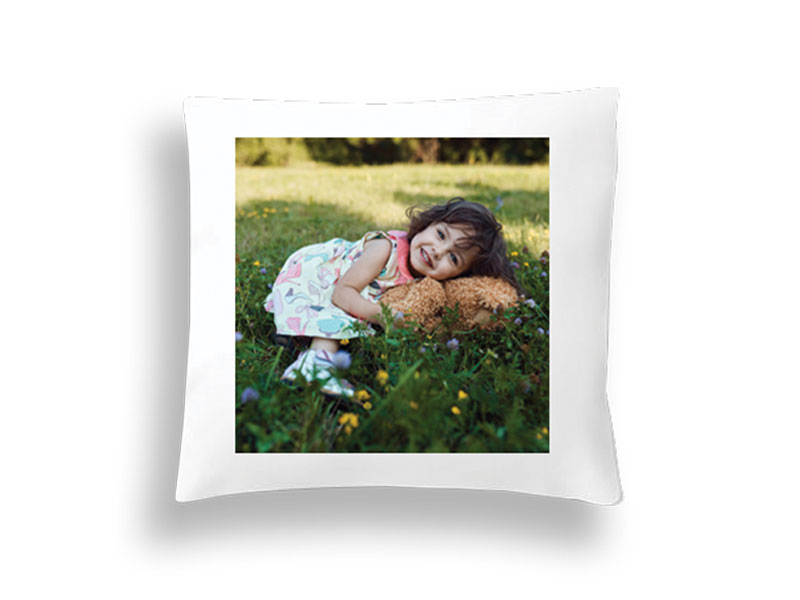
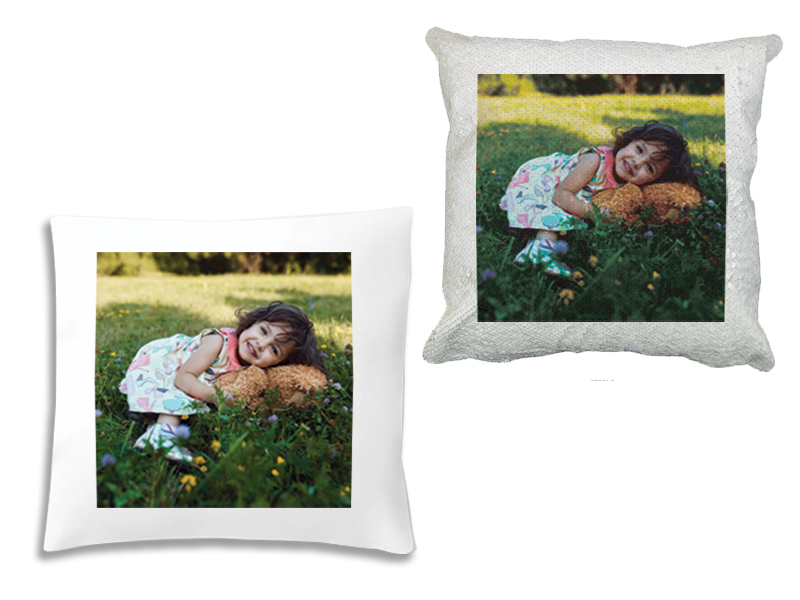
ddd

diff --git a/ajandektargy.html b/ajandektargy.html
@@ -58,38 +58,24 @@
       <div class="product">
         <img class="product__pic" src="assets/gift/mug.jpg" alt="Fényképes bögre">
         <h4>Fényképes bögre</h4>
-        <p class="product__text">Kerámia bögre 300 ml</p>
+        <p class="product__text">Kerámia / műanyag</p>
         <p>Egy fotóval</p>
       </div>
 
       <div class="product">
-        <img class="product__pic" src="assets/gift/mug_xmas.jpg" alt="Fényképes bögre">
-        <h4>Mintás belsejű bögre</h4>
-        <p class="product__text">Karácsonyi mintával</p>
+        <img class="product__pic" src="assets/gift/mug_heart.jpg" alt="Fényképes bögre">
+        <h4>Kerámia bögre</h4>
+        <p class="product__text">Szív füllel</p>
         <p>Egy fotóval</p>
         
       </div>
 
       <div class="product">
-        <img class="product__pic" src="assets/gift/mug_golden.jpg" alt="Fényképes bögre">
-        <h4>Arany belsejű bögre</h4>
-        <p class="product__text">Kerámia bögre, belül gyöngyház arany színnel</p>
-        <p>Egy fotóval</p>
-      </div>
-
-      <div class="product">
-        <img class="product__pic" src="assets/gift/magic_mug-black.jpg" alt="Fényképes bögre">
+        <img class="product__pic" src="assets/gift/magic_mug.jpg" alt="Fényképes bögre">
         <h4>Varázsbögre</h4>
-        <p class="product__text">Varázsbögre fekete</p>
+        <p class="product__text">Matt fekete / csillámos</p>
         <p>Egy fotóval</p>
-        <p class="small-text">(A varázsbögre kívül-belül fekete színű, magas hő hatására láthatóvá válik rajta a fotó fehér alapon.)</p>
-      </div>
-
-      <div class="product">
-        <img class="product__pic" src="assets/gift/bottle.jpg" alt="Kulacs">
-        <h4>Kulacs</h4>
-        <p class="product__text">Alumínium kulacs</p>
-        <p>Egy fotóval</p>
+        <p class="small-text">(Magas hő hatására láthatóvá válik rajta a fotó fehér alapon.)</p>
       </div>
 
       <div class="product">
@@ -100,20 +86,34 @@
         <p>(Alj nyomatlan)</p>
       </div>
 
+      <div class="product">
+        <img class="product__pic" src="assets/gift/badge.jpg" alt="kitűző">
+        <h4>Fényképes kitűző</h4>
+        <p class="product__text">32 mm | 58 mm</p>
+        <p>Egy fotóval</p>
+        <p class="small-text">(Mágneses hátoldallal is elérhető!)</p>
+      </div>
+
+      <div class="product">
+        <img class="product__pic" src="assets/gift/magnet_new.jpg" alt="Hűtőmágnes">
+        <h4>Hűtőmágnes</h4>
+        <p class="product__text">Többféle:</p>
+        <p>Mágneslap | Kitűző forma | Fém</p>
+      </div>
+
+      <div class="product">
+        <img class="product__pic" src="assets/gift/puzzle.jpg" alt="Kirakó">
+        <h4>Kirakó</h4>
+        <p class="product__text">Többféle méret:</p>
+        <p class="small-text">kb. 16x11 cm | Kb. 20x14 cm |  Kb. 28x19 cm </p>
+      </div>
       
       <div class="product">
         <img class="product__pic" src="assets/gift/keychain.jpg" alt="Kulcstartó">
         <h4>Kulcstartó</h4>
         <p class="product__text">Többféle:</p>
-        <p>Műanyag | Fém díszdobozzal</p>
+        <p>Műanyag | Fém díszdobozzal |  Szív forma</p>
         <p>(Egy oldalon nyomott)</p>
-      </div>
-
-      <div class="product">
-        <img class="product__pic" src="assets/gift/magnet.jpg" alt="Hűtőmágnes">
-        <h4>Hűtőmágnes</h4>
-        <p class="product__text">Többféle:</p>
-        <p>Mágneslap | Műanyag | Fém</p>
       </div>
 
       <div class="product">
@@ -135,7 +135,9 @@
       <div class="product">
         <img class="product__pic" src="assets/gift/pillow.jpg" alt="Párna">
         <h4>Fényképes párna</h4>
+        <p class="product__text">Textil / Flitteres</p>
         <p class="product__text">Egy oldalon nyomott párna, töltettel</p>
+        <p class="small-text">(A flitteres változat átfordítva fehér színű!)</p>
         <p>40 x 40 cm</p>
       </div>
 
@@ -150,7 +152,7 @@
       <div class="product">
         <img class="product__pic" src="assets/gift/apron.jpg" alt="kötény">
         <h4>Kötény</h4>
-        <p class="product__text">Fotóval | Fotóval és grafikával</p>
+        <p class="product__text">Fotóval</p>
         <p class="small-text">(Kérhető saját szöveges tartalommal kiegészítve 
           vagy önállóan a fotóval!)</p>
       </div>
@@ -172,28 +174,27 @@
       </div>     
 
         <div class="product">
-        <img class="product__pic" src="assets/gift/calendar.jpg" alt="naptár">
-        <h4>Naptár</h4>
-        <p class="product__text">Kb. 20x29 cm-es 1 oldalas, éves naptár</p>
-        <p>Többféle:</p>
-        <p>Fiús | Lányos  |  Karácsonyi mintával</p>
+        <img class="product__pic" src="assets/gift/airfreshener.jpg" alt="illatosító">
+        <h4>Illatosító</h4>
+        <p class="product__text">Véletlenszerű formában</p>
+        <p>Illattal |  Illat nélkül</p>
+        <p class="small-text">Illóolajjal vagy parfümmel (újra)illatosítható</p>
       </div>
 
       <div class="product">
-        <img class="product__pic" src="assets/gift/xmas_ball.jpg" alt="Karácsonyfadísz">
-        <h4>Karácsonyfadísz</h4>
-        <p class="product__text">Műanyag dísz, kerek fotóbetéttel</p>
-        <p>Arany | Ezüst  |  Piros</p>
-        <p class="small-text">A színek elérhetősége változhat!</p>
+        <img class="product__pic" src="assets/gift/heart_box.jpg" alt="Karácsonyfadísz">
+        <h4>Fém tárolódoboz</h4>
+        <p class="product__text">Szív formájú</p>
+        <p>cca. 15 x 14 x 4.5 cm</p>
+        <p class="small-text">A készlet erejéig!</p>
       </div>
 
       <div class="product">
         <img class="product__pic" src="assets/gift/snowglobe.jpg" alt="Fotógömb">
         <h4>Fotógömb</h4>
-        <p class="product__text">Többféle:</p>
-        <p>Hó | Szív</p>
-        <p>Belsejében vízben lebegő szív vagy hó található</p>
-        <p>Mindkét oldalán fotóval</p>
+        <p class="product__text">Mindkét oldalán fotóval</p>
+        <p>Belsejében vízben lebegő szívecskékkel</p>
+        <p></p>
         <p class="small-text">(Egyforma vagy különböző képekkel.) </p>
       </div>
        
